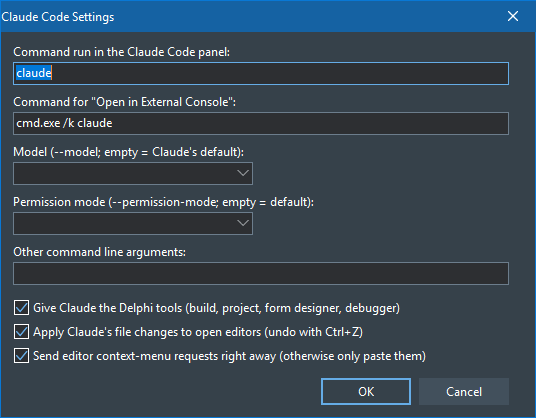
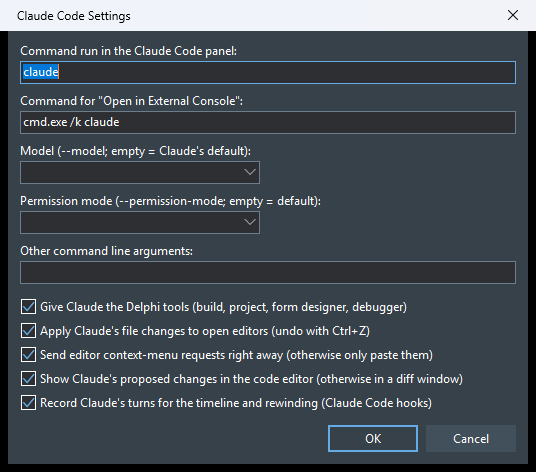
Screenshots of the stage 8 windows in the README
The Claude Code menu, Project Map, Modernize dialog, review in the code
editor and Claude Timeline; the Settings dialog with its new options.

Changed region(s): [[0.0, 0.0, 1.0, 1.0], [0.9254, 0.622, 0.9552, 0.6842], [0.9254, 0.2799, 0.9552, 0.311]]

diff --git a/README.uk.md b/README.uk.md
@@ -126,6 +126,8 @@ powershell -ExecutionPolicy Bypass -File install.ps1
 
 Меню **Tools → Claude Code**:
 
+![Меню Tools → Claude Code](docs/images/claude-menu.png)
+
 - **Open Claude Code** (`Ctrl+Shift+Alt+C`): відкриває панель Claude Code і запускає `claude` у теці активного проєкту.
   Claude отримує `CLAUDE_CODE_SSE_PORT` / `ENABLE_IDE_INTEGRATION` і підключається до IDE сам.
 - **Open in External Console**: те саме в окремому вікні консолі (якщо WebView2 недоступний).
@@ -133,7 +135,13 @@ powershell -ExecutionPolicy Bypass -File install.ps1
 - **Explain Debugger Stop with Claude**: коли програма під налагодженням зупинена (breakpoint, виняток, пауза), вставляє в панель Claude виняток, поточний рядок із кодом і стек викликів як запит.
 - **Make Tests Pass with Claude**: запускає DUnitX-тести (`runTests`) і, якщо є упалі, вставляє їх у панель із проханням виправити код і запускати тести, доки всі не пройдуть.
 - **Project Map...**: граф залежностей юнітів у вікні: розміри, форми й дата-модулі, цикли; клік — що юніт використовує і хто використовує його, подвійний клік — відкрити, **Ask Claude** — пояснення.
+
+  ![Project Map: юніти тестової групи проєктів, вибрано OrderLogic і те, що його використовує](docs/images/project-map.png)
+
 - **Modernize Project with Claude...**: вибір Win64, Unicode, бази даних (BDE/dbExpress/ADO → FireDAC), попереджень компілятора або витоків пам'яті; Claude аналізує проєкт і виправляє його порціями зі збіркою після кожної.
+
+  ![Діалог Modernize Project](docs/images/modernize.png)
+
 - **Claude Timeline...**: ходи Claude з файлами, які змінив кожен (див. нижче).
 - **Create CLAUDE.md for Project...**: записує в `CLAUDE.md` проєкту розділ «Delphi project» (тип, framework, платформи, команда збірки, кодування юнітів, форми, DUnitX-проєкти, коли використовувати `mcp__delphi__*`). Генерується лише частина між `<!-- delphi:begin -->` і `<!-- delphi:end -->`; спершу ви переглядаєте її у вікні diff.
 - **Send Selection to Claude** (`Ctrl+Alt+K`): додає в підказку Claude `@файл#Lx-y` для виділеного фрагмента; у дизайнері форм вставляє виділені компоненти як DFM-текст.
@@ -177,6 +185,8 @@ powershell -ExecutionPolicy Bypass -File install.ps1
 поточним текстом; Reject повертає оригінал байт у байт. Форми, файли проєкту, нові файли та вкладки з незбереженими змінами
 й далі відкриваються у вікні diff.
 
+![Перегляд у редакторі коду: зміна 2 з 3, видалений рядок показано на панелі, додані рядки зелені](docs/images/inline-review.png)
+
 ### Claude Timeline
 
 З **Settings… → Record Claude's turns** сесії, запущені з IDE, отримують хуки Claude Code (`--settings`), які
@@ -188,6 +198,8 @@ IDE відповідає на хук лише після його обробки
 зайнята довше 5 секунд, Claude продовжує, не чекаючи). Файл налаштувань хуків
 (`%USERPROFILE%\.claude\ide\<port>.delphi-settings.json`) видаляється під час закриття IDE; файли, що лишилися після
 аварійного завершення, прибираються під час наступного запуску.
+
+![Claude Timeline: три ходи, вибраний змінив MainForm.pas і створив CHANGES.md](docs/images/timeline.png)
 
 ### Файли, які Claude змінює на диску
 

diff --git a/README.md b/README.md
@@ -127,6 +127,8 @@ If Delphi is installed elsewhere: `build.bat "C:\path\to\Studio\37.0"`.
 
 Menu **Tools → Claude Code**:
 
+![Tools → Claude Code menu](docs/images/claude-menu.png)
+
 - **Open Claude Code** (`Ctrl+Shift+Alt+C`): opens the Claude Code panel and starts `claude` in the active project folder.
   Claude gets `CLAUDE_CODE_SSE_PORT` / `ENABLE_IDE_INTEGRATION` and connects to the IDE automatically.
 - **Open in External Console**: the same in a separate console window (if WebView2 is unavailable).
@@ -134,7 +136,13 @@ Menu **Tools → Claude Code**:
 - **Explain Debugger Stop with Claude**: when the debugged program is stopped (breakpoint, exception, pause), pastes the exception, the current line with its source and the call stack into the Claude panel as a request.
 - **Make Tests Pass with Claude**: runs the DUnitX tests (`runTests`) and, if some fail, pastes them into the panel with the request to fix the code and run the tests again until they pass.
 - **Project Map...**: the unit dependency graph in a window: size, forms and data modules, cycles; click a unit for what it uses and what uses it, double-click to open it, **Ask Claude** to get it explained.
+
+  ![Project Map: the units of the sample project group, OrderLogic selected with what uses it](docs/images/project-map.png)
+
 - **Modernize Project with Claude...**: choose Win64, Unicode, database (BDE/dbExpress/ADO to FireDAC), compiler warnings or memory leaks; Claude analyzes the project and fixes it in batches with a build after each one.
+
+  ![Modernize Project dialog](docs/images/modernize.png)
+
 - **Claude Timeline...**: Claude's turns with the files each one changed (see below).
 - **Create CLAUDE.md for Project...**: writes a "Delphi project" section into the project's `CLAUDE.md` (type, framework, platforms, build command, source encoding, forms, DUnitX projects, when to use the `mcp__delphi__*` tools). Only the part between `<!-- delphi:begin -->` and `<!-- delphi:end -->` is generated; you review it in the diff window first.
 - **Send Selection to Claude** (`Ctrl+Alt+K`): adds `@file#Lx-y` for the selected code to Claude's prompt; in the form designer it pastes the selected components as DFM text.
@@ -178,6 +186,8 @@ and the buttons **Previous / Next** (`Ctrl+Alt+PgUp/PgDn`), **Undo this change**
 is always the difference from the original. Accept saves the file and answers Claude with the text as it is; Reject puts
 the original back byte for byte. Forms, project files, new files and tabs with unsaved changes still use the diff window.
 
+![Review in the code editor: change 2 of 3, the removed line is shown in the bar, added lines are green](docs/images/inline-review.png)
+
 ### Claude Timeline
 
 With **Settings… → Record Claude's turns**, sessions started from the IDE get Claude Code hooks (`--settings`) that
@@ -189,6 +199,8 @@ The IDE answers a hook only after it has handled it, so a file is copied before 
 for more than 5 seconds, Claude goes on without waiting). The hooks settings file
 (`%USERPROFILE%\.claude\ide\<port>.delphi-settings.json`) is removed when the IDE closes; files left by an IDE that
 crashed are removed at the next start.
+
+![Claude Timeline: three turns, the selected one changed MainForm.pas and created CHANGES.md](docs/images/timeline.png)
 
 ### Files Claude changes on disk
 
